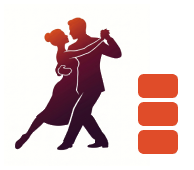
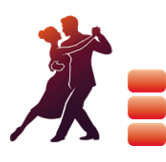
map fixes

Changed region(s): [[0.0602, 0.0926, 0.6928, 0.8951], [0.6928, 0.4012, 1.0, 0.9259]]

diff --git a/src/components/landing/ProgramSection.tsx b/src/components/landing/ProgramSection.tsx
@@ -268,7 +268,7 @@ function ProgramMobile() {
         <img
           src={routeSticker(monthIdx, "end")}
           alt=""
-          className="pointer-events-none absolute bottom-[24px] left-[205px] z-0 h-[46px] w-[52px] object-contain"
+          className="pointer-events-none absolute bottom-[24px] left-[209px] z-0 h-[46px] w-[47px] object-contain"
         />
       </div>
 
@@ -491,7 +491,7 @@ function ProgramDesktop() {
         <img
           src={routeSticker(monthIdx, "end")}
           alt=""
-          className="pointer-events-none absolute left-[926px] top-[7px] h-[81px] w-[91px] object-contain"
+          className="pointer-events-none absolute left-[932px] top-[7px] h-[81px] w-[83px] object-contain"
         />
 
         {month.nodes.map((node, i) => {

diff --git a/src/lib/landing-assets.ts b/src/lib/landing-assets.ts
@@ -211,7 +211,7 @@ export const landingAssets = {
     end: `${landingAsset("program-m2-sticker-end.png")}?v=1`,
   },
   /** Couple + 3 filled bars (month 3) */
-  programStickerMonth3: `${landingAsset("program-m3-sticker.png")}?v=9`,
+  programStickerMonth3: `${landingAsset("program-m3-sticker.png")}?v=11`,
   direction3d: [
     `${landingAsset("direction-3d-01.png")}?v=3`,
     `${landingAsset("direction-3d-02.png")}?v=3`,